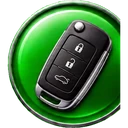
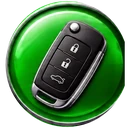
Chave verde da ignicao: circulo completo (faltava um pedaco a direita) (28/10/2026)
Claude-Session: https://claude.ai/code/session_01UqpUQnBDLQ9f3Worn7r94n

diff --git a/tempo-real.html b/tempo-real.html
@@ -3078,7 +3078,7 @@ details:not([open])>summary .ico.lix[data-a="deleq"],details:not([open])>summary
 </style>
 <style>/* 28/10/2026 (dono): botões do cartão com ícones realistas (pasta icv/). Para voltar: apagar este bloco. */
 #sheet .vign.on,#sheet .vign.off{background:center/100% 100% no-repeat;border:0}
-#sheet .vign.on{background-image:url(icv/ui-chave-on.webp);box-shadow:0 0 12px rgba(34,197,94,.55)}
+#sheet .vign.on{background-image:url(icv/ui-chave-on.webp?v=2);box-shadow:0 0 12px rgba(34,197,94,.55)}
 #sheet .vign.off{background-image:url(icv/ui-chave-off.webp);box-shadow:0 0 8px rgba(220,38,38,.35)}
 #sheet .vign.on svg,#sheet .vign.off svg{display:none}
 main #sheet .vname .vign.on,main #sheet .vname .vign.off{width:34px;height:34px}
